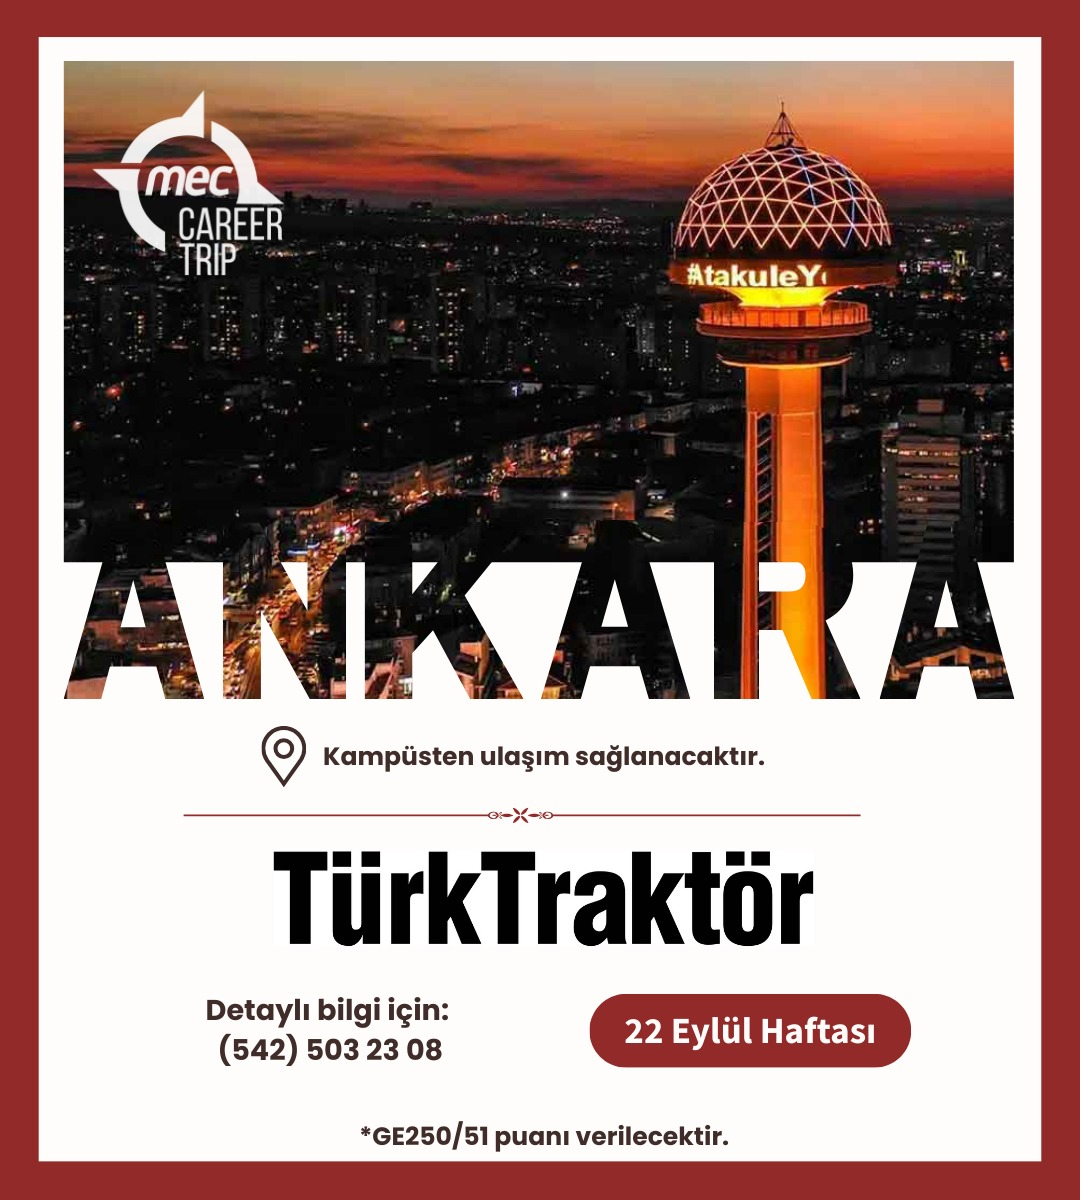
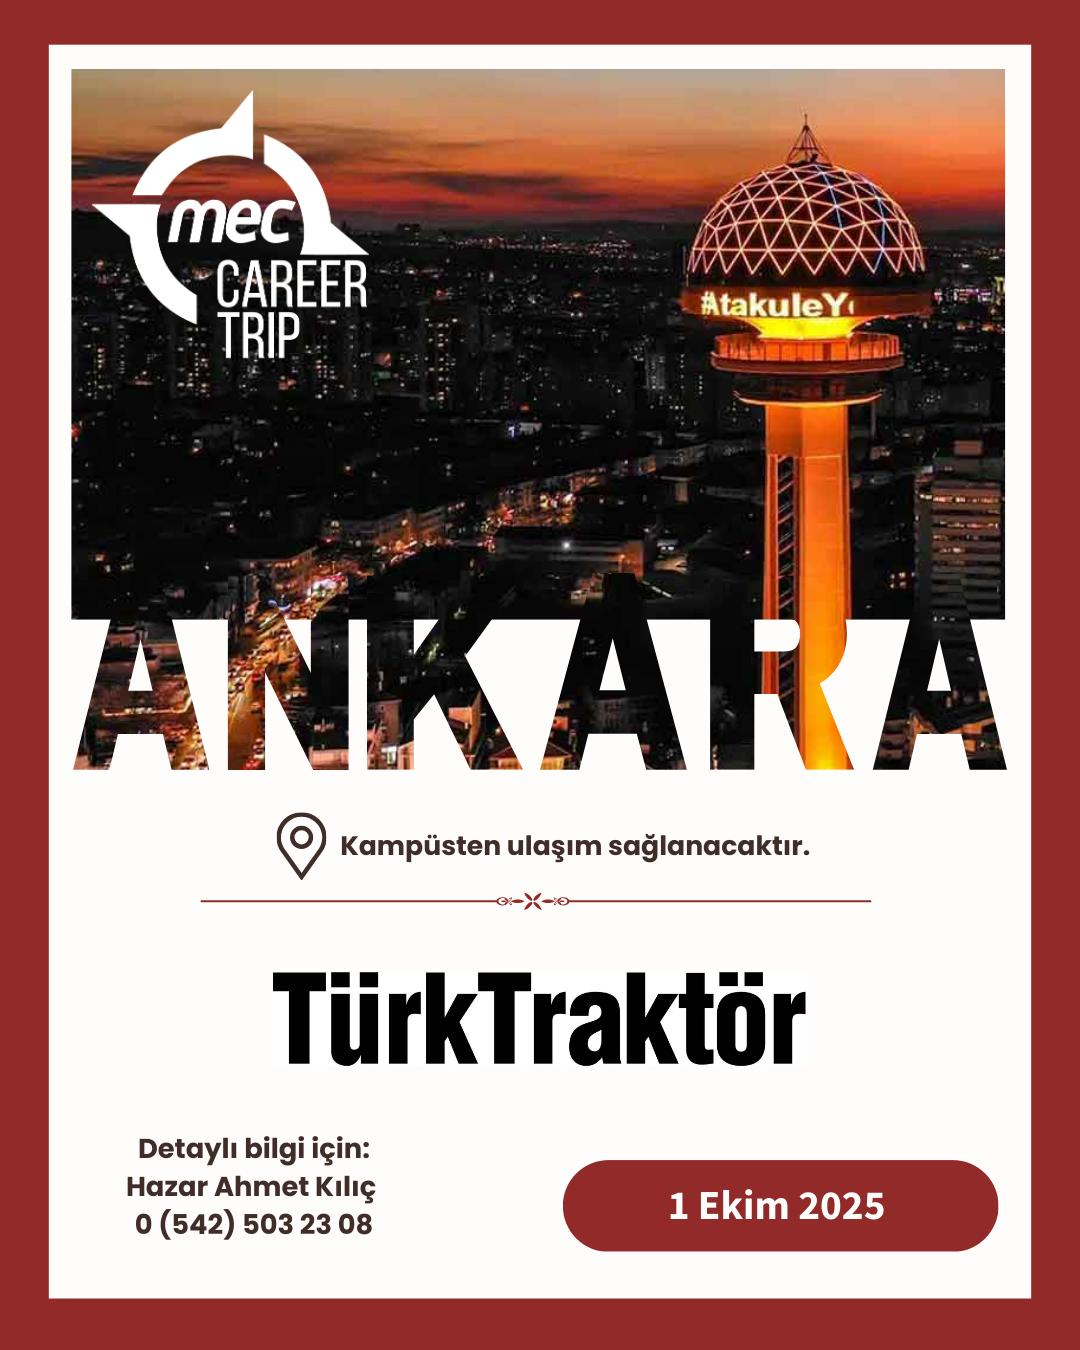
Event review

Changed region(s): [[0.0306, 0.0308, 0.9778, 0.9867]]

diff --git a/Etkinliklerimiz.html b/Etkinliklerimiz.html
@@ -36,7 +36,7 @@
                     <img src="./assets/events/turk-traktor-new.jpeg" alt="Yaz Festivali">
                 </div>
                 <div class="event-content">
-                    <span class="event-date2">22 Eyl 2025</span>
+                    <span class="event-date2">01 Eki 2025</span>
                     <h3>MCT Ankara Türk Traktör</h3>
                     <div class="event-meta">
                         <span><i class="fas fa-map-marker-alt"></i> Ankara Türk Traktör</span>
@@ -94,8 +94,8 @@ Stepforward: Türkiye’nin önde gelen isimlerini öğrencilerle buluşturan ge
             <div class="footer-links">
                 <a href="./About.html">Hakkımızda</a> | 
                 <a href="./Etkinliklerimiz.html">Etkinliklerimiz</a> | 
-                <a href="#sponsors">Sponsorlarımız</a> | 
-                <a href="./Ekibimiz.html">Ekibimiz</a>
+                <a href="#./index">Sponsorlarımız</a> | 
+                <a href="./About.html#team">Ekibimiz</a>
             </div>
         </div>
     </footer>

diff --git a/index.html b/index.html
@@ -139,7 +139,7 @@
           <div class="event-content">
             <h3>MCT Ankara Türk Traktör</h3>
             <p>MEC Career Trip ile Ankara Türk Traktör ziyareti.</p>
-            <span class="event-date">22 Eyl 2025</span>
+            <span class="event-date">01 Eki 2025</span>
             <a href="https://instagram.com/bilkentmec" class="event-btn">Detaylar</a>
           </div>
         </div>

diff --git a/About.html b/About.html
@@ -243,7 +243,7 @@
       <div class="footer-links">
         <a href="./About.html">Hakkımızda</a> | 
         <a href="./Etkinliklerimiz.html">Etkinliklerimiz</a> | 
-        <a href="./Anasayfa.html#sponsors">Sponsorlarımız</a> | 
+        <a href="./index.html">Sponsorlarımız</a> | 
         <a href="./About.html#team">Ekibimiz</a>
       </div>
     </div>
